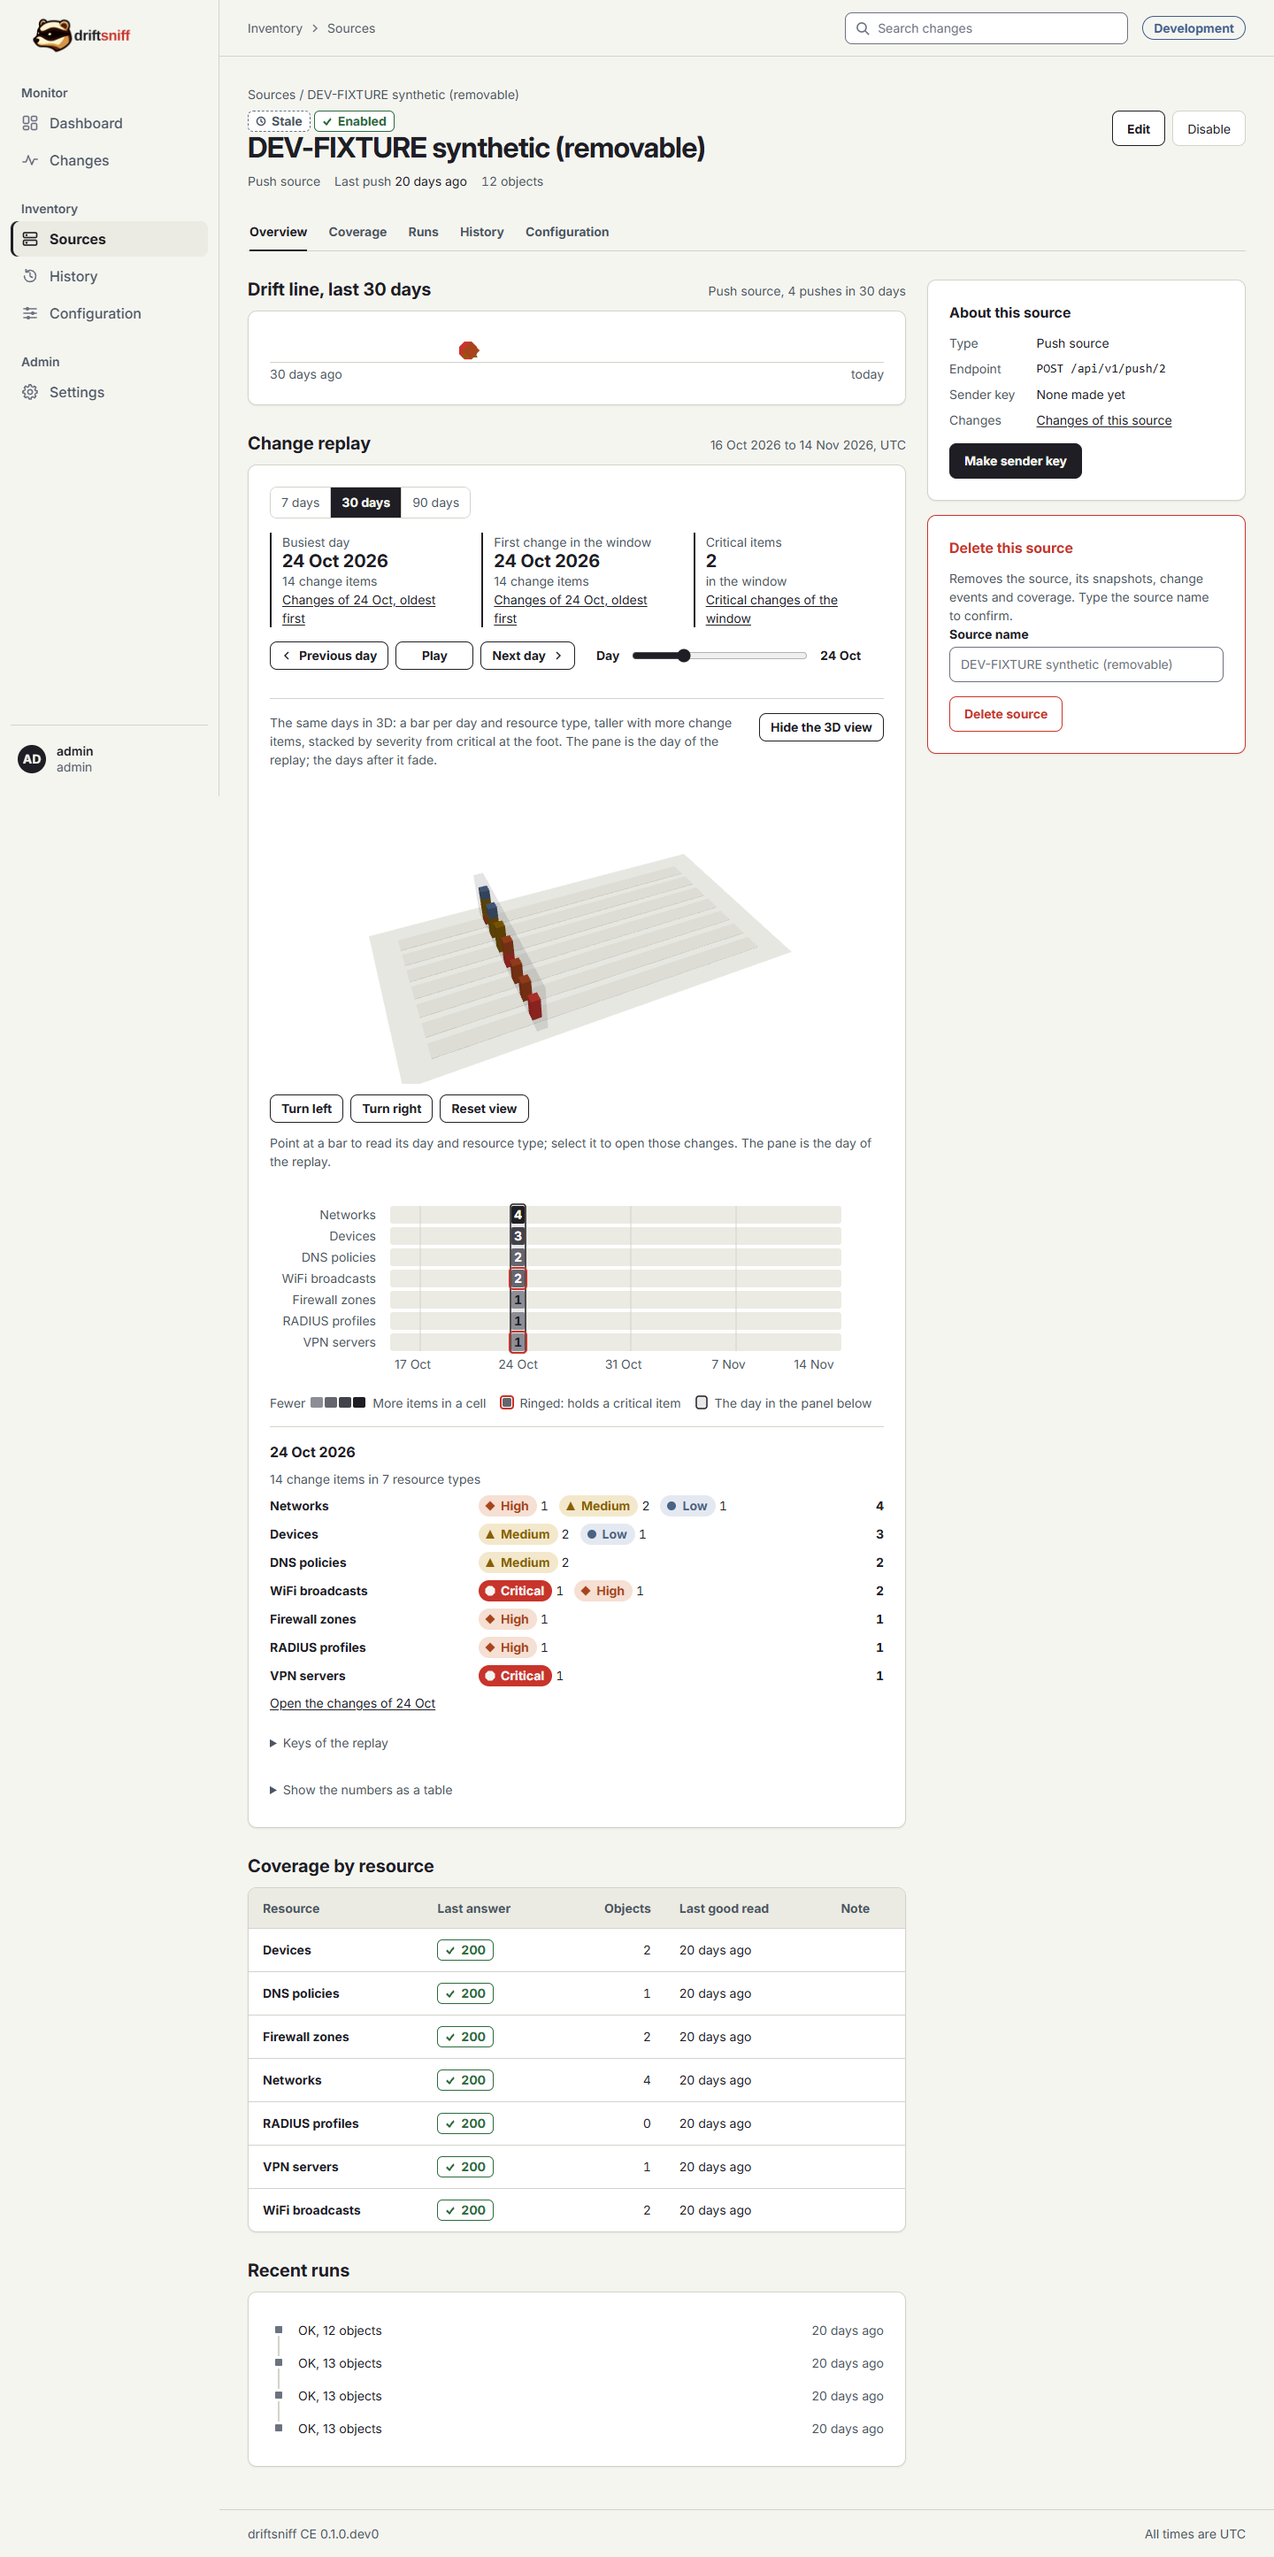
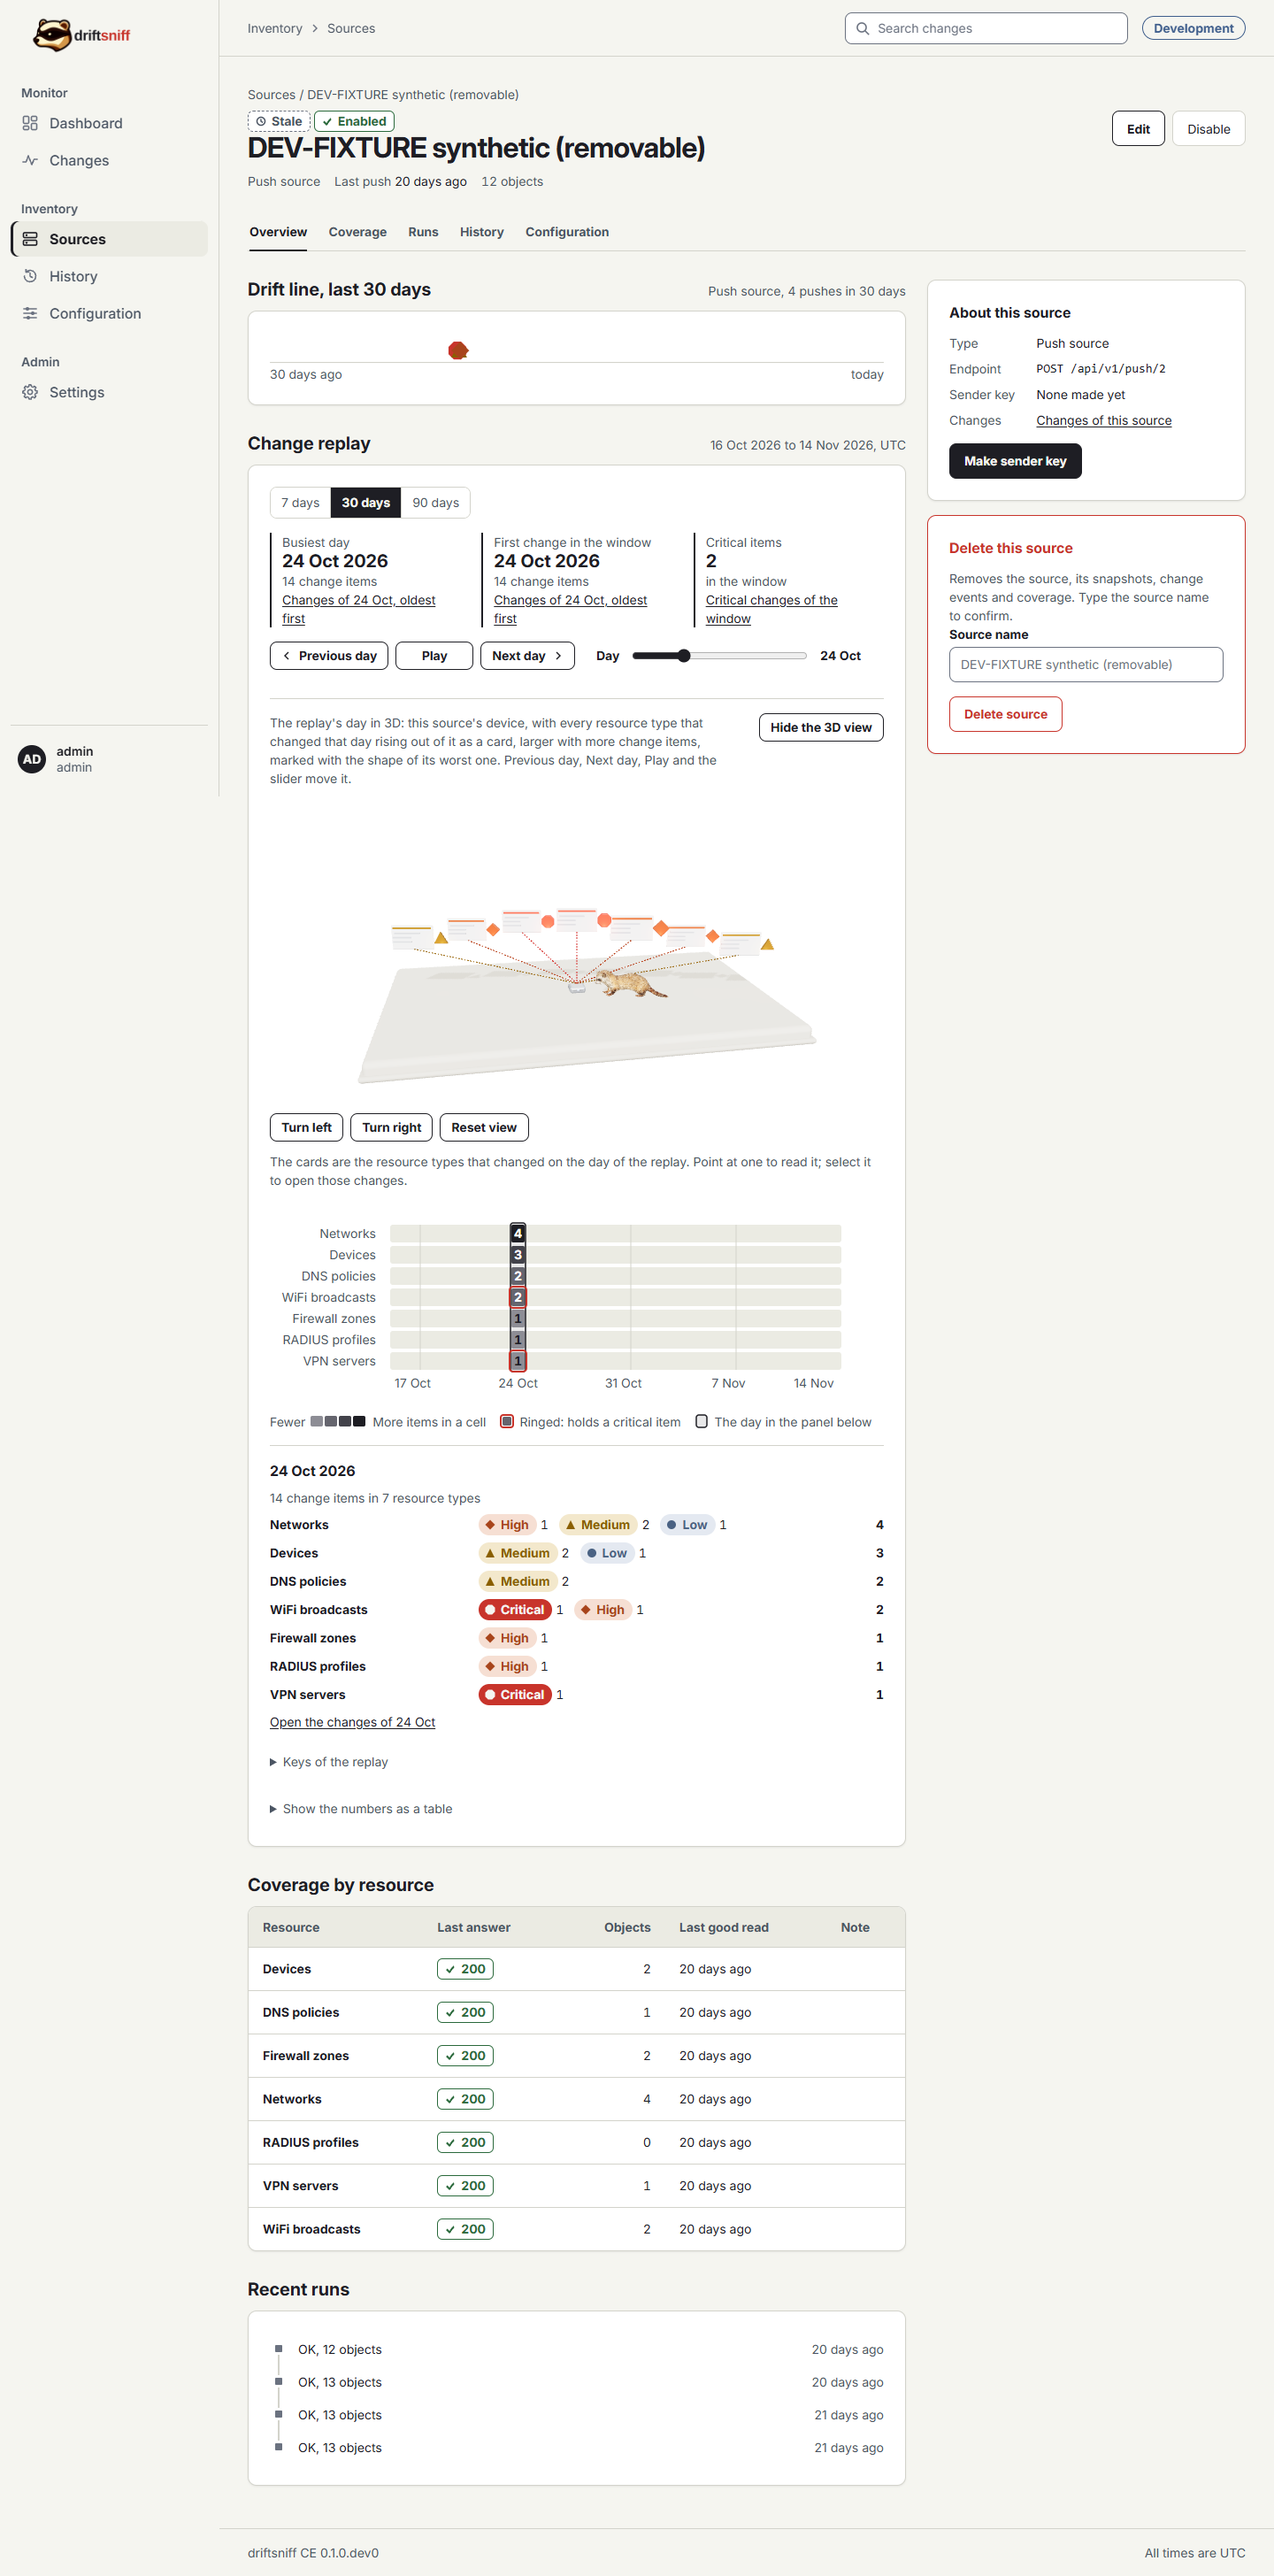
Retake the change replay screenshots with the device and its cards
source-page-1440-full.png and source-replay-768-dark.png are taken again on
Development build 6077f78d, after PRs 164 and 165 moved the replay's 3D
view onto the source's own device. Manifest hashes, times and builds
updated; the docs README names the third build.

diff --git a/docs/README.md b/docs/README.md
@@ -10,8 +10,9 @@ in the hint under the push source form. All screenshots were retaken at
 `https://ce-dev-driftsniff.theriark.dev` on 14 November 2026 after the web UI revamp (the Inter
 typeface, the page change and the 3D change replay of a source page) on the later Development
 build `63112500`; the dashboard pictures were taken again the same day on build `41b511db`, which
-replaced the dashboard's 3D lane field with the 3D lab of sources and the ferret. They show those
-builds rather than the candidate above. All captures hold synthetic test data only. The
+replaced the dashboard's 3D lane field with the 3D lab of sources and the ferret, and the two
+pictures of the change replay on build `6077f78d`, which shows the replay's day on the source's
+own device. They show those builds rather than the candidate above. All captures hold synthetic test data only. The
 [documentation manifest](documentation-manifest.json) lists every file with its SHA-256 and, for
 every screenshot, the build it was taken on.
 
